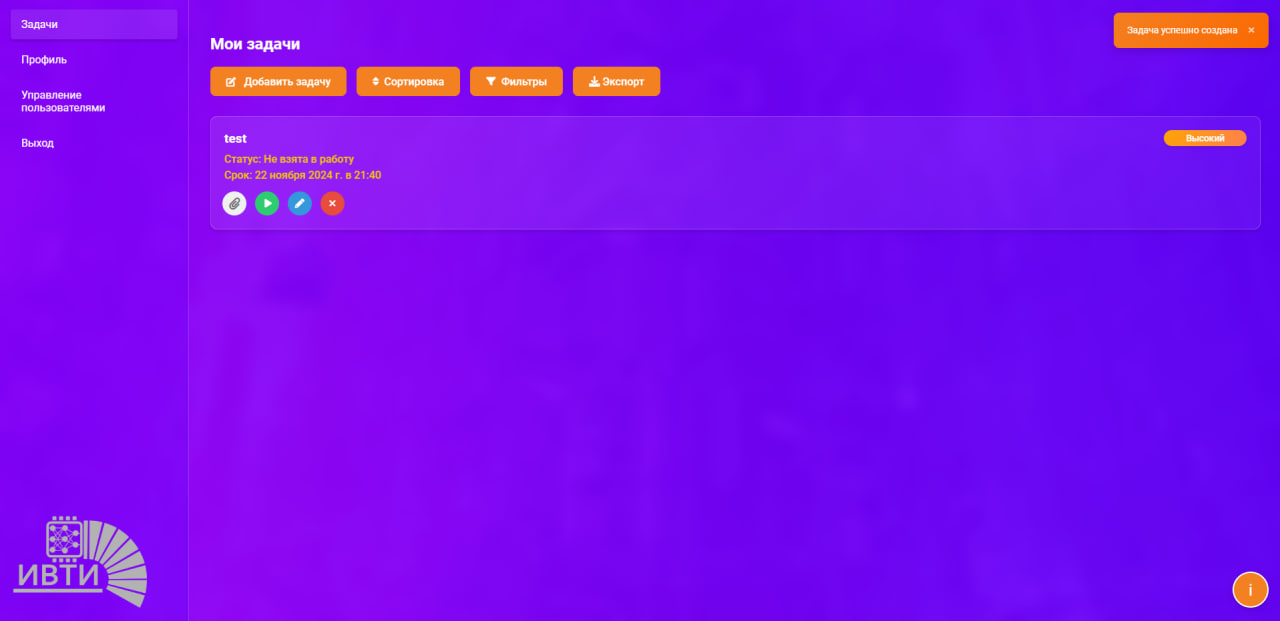
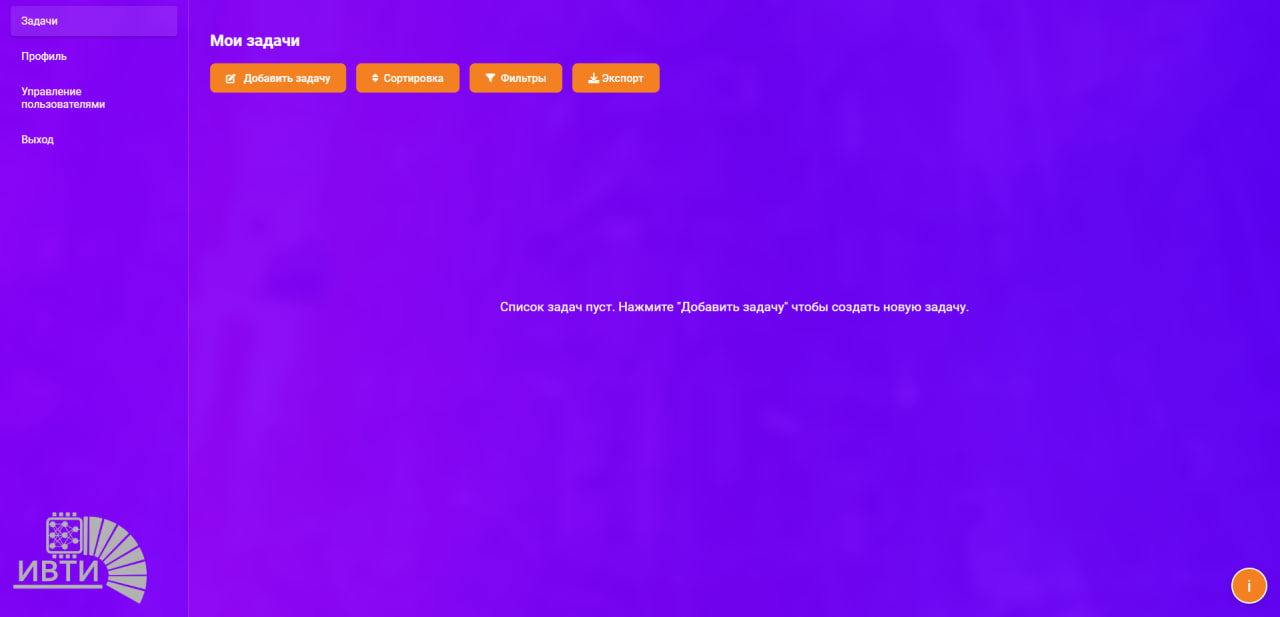
add kanban board

diff --git a/frontend/static/css/dashboard.css b/frontend/static/css/dashboard.css
@@ -5,9 +5,7 @@
     --success-dark: #27ae60;
     --danger-color: #e74c3c;
     --danger-dark: #c0392b;
-    --warning-color: #f1c40f;
     --text-primary: #ffffff;
-    --text-secondary: #e0e0e0;
     --background-light: rgba(255, 255, 255, 0.1);
     --border-color: rgba(255, 255, 255, 0.2);
     --shadow-color: rgba(0, 0, 0, 0.2);
@@ -128,7 +126,7 @@ body {
 .form-group label {
     display: block;
     margin-bottom: 0.5rem;
-    color: var(--text-secondary);
+    color: var(--text-primary);
     font-size: 0.9rem;
     font-weight: 500;
 }
@@ -433,7 +431,7 @@ button:disabled,
 .form-group label {
     display: block;
     margin-bottom: 0.5rem;
-    color: var(--text-secondary);
+    color: var(--text-primary);
     font-size: clamp(0.8rem, 2.5vw, 0.9rem);
 }
 
@@ -694,7 +692,7 @@ button:disabled,
 .info-label {
     font-weight: 500;
     min-width: 180px;
-    color: var(--text-secondary);
+    color: var(--text-primary);
 }
 
 .info-value {
@@ -735,7 +733,7 @@ button:disabled,
 
 .password-requirements {
     font-size: 0.85rem;
-    color: var(--text-secondary);
+    color: var(--text-primary);
     margin-top: 0.5rem;
     padding: 1rem;
     background: rgba(255, 255, 255, 0.1);
@@ -779,7 +777,7 @@ button:disabled,
 
 .user-info p {
     margin: 0.25rem 0;
-    color: var(--text-secondary);
+    color: var(--text-primary);
 }
 
 .user-actions {
@@ -909,11 +907,11 @@ button:disabled,
 
 .task-info p {
     margin: 5px 0;
-    color: var(--text-secondary);
+    color: var(--text-primary);
 }
 
 .due-date {
-    color: var(--warning-color) !important;
+    color: var(--text-primary) !important;
     font-weight: 500;
 }
 
@@ -1042,7 +1040,7 @@ input:checked + .slider:before {
 }
 
 .status-btn.completed {
-    background: var(--warning-color);
+    background: var(--text-primary);
 }
 
 .status-btn.completed:hover {
@@ -1063,7 +1061,7 @@ input:checked + .slider:before {
 }
 
 .complete-btn.completed {
-    background: var(--warning-color);
+    background: var(--text-primary);
 }
 
 .complete-btn.completed:hover {
@@ -1152,7 +1150,7 @@ input:checked + .slider:before {
     display: block;
     padding: 5px 10px;
     font-size: 0.9rem;
-    color: var(--text-secondary);
+    color: var(--text-primary);
     font-weight: 500;
 }
 
@@ -1250,7 +1248,7 @@ input:checked + .slider:before {
     display: block;
     padding: 5px 10px;
     font-size: 0.9rem;
-    color: var(--text-secondary);
+    color: var(--text-primary);
     font-weight: 500;
 }
 
@@ -1538,7 +1536,7 @@ select#taskAssignee option {
 }
 
 .task-status {
-    color: var(--warning-color) !important;
+    color: var(--text-primary) !important;
     font-weight: 500;
 }
 
@@ -1641,4 +1639,106 @@ select#taskAssignee option {
 
 .file-actions button i {
     font-size: 16px;
+}
+
+.kanban-board {
+    display: flex;
+    gap: 20px;
+    padding: 20px;
+    overflow-x: auto;
+    min-height: 400px;
+    max-height: 600px;
+}
+
+.kanban-column {
+    flex: 1;
+    min-width: 300px;
+    background: rgba(255, 255, 255, 0.1);
+    border-radius: 8px;
+    display: flex;
+    flex-direction: column;
+    max-height: 100%;
+    border: 1px solid var(--border-color);
+}
+
+.kanban-column-header {
+    padding: 15px;
+    background: rgba(255, 255, 255, 0.15);
+    border-radius: 8px 8px 0 0;
+    font-weight: bold;
+    text-align: center;
+    color: var(--text-primary);
+}
+
+.kanban-tasks {
+    flex: 1;
+    padding: 10px;
+    overflow-y: auto;
+    min-height: 100px;
+    max-height: calc(100% - 50px);
+}
+
+.task-item {
+    cursor: grab;
+    margin-bottom: 10px;
+    --gradient-bg: linear-gradient(135deg, rgba(147, 0, 255, 0.4), rgba(89, 0, 255, 0.4));
+    border-radius: 6px;
+    box-shadow: 0 2px 4px rgba(0, 0, 0, 0.1);
+    transition: transform 0.2s, box-shadow 0.2s;
+}
+
+.task-item.dragging {
+    opacity: 0.5;
+    cursor: grabbing;
+}
+
+.kanban-tasks:empty {
+    display: flex;
+    align-items: center;
+    justify-content: center;
+    height: 100px;
+    background: rgba(0, 0, 0, 0.05);
+    border-radius: 6px;
+    color: #666;
+    font-style: italic;
+}
+
+.kanban-tasks:empty::after {
+    content: 'Нет задач';
+    font-size: 1.2rem;
+    color: var(--text-primary);
+}
+
+.kanban-board::-webkit-scrollbar,
+.kanban-tasks::-webkit-scrollbar {
+    width: 8px;
+    height: 8px;
+}
+
+.kanban-board::-webkit-scrollbar-track,
+.kanban-tasks::-webkit-scrollbar-track {
+    background: rgba(255, 255, 255, 0.1);
+    border-radius: 4px;
+}
+
+.kanban-board::-webkit-scrollbar-thumb,
+.kanban-tasks::-webkit-scrollbar-thumb {
+    background: rgba(243, 128, 33, 0.6);
+    border-radius: 4px;
+    transition: background 0.3s ease;
+}
+
+.kanban-board::-webkit-scrollbar-thumb:hover,
+.kanban-tasks::-webkit-scrollbar-thumb:hover {
+    background: var(--primary-color);
+}
+
+.kanban-board::-webkit-scrollbar-corner {
+    background: transparent;
+}
+
+.kanban-board,
+.kanban-tasks {
+    scrollbar-width: thin;
+    scrollbar-color: rgba(243, 128, 33, 0.6) rgba(255, 255, 255, 0.1);
 }

diff --git a/frontend/static/js/dashboard.js b/frontend/static/js/dashboard.js
@@ -201,10 +201,22 @@ document.addEventListener('DOMContentLoaded', async () => {
             return;
         }
 
+        const kanbanBoard = document.createElement('div');
+        kanbanBoard.className = 'kanban-board';
+
+        const columns = {
+            backlog: createKanbanColumn('Не взято в работу', 0),
+            inProgress: createKanbanColumn('В работе', 1),
+            completed: createKanbanColumn('Завершено', 2)
+        };
+
+        Object.values(columns).forEach(column => {
+            kanbanBoard.appendChild(column);
+        });
+
         if (currentSort.field) {
             tasks.sort((a, b) => {
                 let comparison = 0;
-
                 if (currentSort.field === 'priority') {
                     comparison = b.priority - a.priority;
                 } else if (currentSort.field === 'due_date') {
@@ -212,16 +224,90 @@ document.addEventListener('DOMContentLoaded', async () => {
                     const dateB = b.due_date ? new Date(b.due_date) : new Date(8640000000000000);
                     comparison = dateA - dateB;
                 }
-
                 return currentSort.order === 'desc' ? -comparison : comparison;
             });
         }
 
-        tasksList.innerHTML = '';
         tasks.forEach(task => {
             const taskElement = createTaskCard(task);
-            tasksList.appendChild(taskElement);
+            taskElement.draggable = true;
+
+            taskElement.addEventListener('dragstart', handleDragStart);
+            taskElement.addEventListener('dragend', handleDragEnd);
+
+            const status = task.status || 0;
+            const columnKey = status === 0 ? 'backlog' : status === 1 ? 'inProgress' : 'completed';
+            columns[columnKey].querySelector('.kanban-tasks').appendChild(taskElement);
         });
+
+        tasksList.appendChild(kanbanBoard);
+    }
+
+    function createKanbanColumn(title, status) {
+        const column = document.createElement('div');
+        column.className = 'kanban-column';
+        column.dataset.status = status;
+
+        column.innerHTML = `
+            <div class="kanban-column-header">${title}</div>
+            <div class="kanban-tasks"></div>
+        `;
+
+        const tasksContainer = column.querySelector('.kanban-tasks');
+
+        tasksContainer.addEventListener('dragover', handleDragOver);
+        tasksContainer.addEventListener('drop', handleDrop);
+
+        return column;
+    }
+
+    function handleDragStart(e) {
+        e.target.classList.add('dragging');
+        e.dataTransfer.setData('text/plain', e.target.getAttribute('data-task-id'));
+    }
+
+    function handleDragEnd(e) {
+        e.target.classList.remove('dragging');
+    }
+
+    function handleDragOver(e) {
+        e.preventDefault();
+        e.dataTransfer.dropEffect = 'move';
+    }
+
+    async function handleDrop(e) {
+        e.preventDefault();
+        const taskId = e.dataTransfer.getData('text/plain');
+        const newStatus = parseInt(e.currentTarget.parentElement.dataset.status);
+
+        try {
+            const response = await fetch(`/tasks/${taskId}`, {
+                method: 'PUT',
+                headers: {
+                    'Authorization': `Bearer ${token}`,
+                    'Content-Type': 'application/json'
+                },
+                body: JSON.stringify({
+                    status: newStatus
+                })
+            });
+
+            if (response.ok) {
+                await loadTasks();
+                showNotification(
+                    `Задача ${getStatusLabel(newStatus).toLowerCase()}`,
+                    'success'
+                );
+            } else {
+                const errorData = await response.json();
+                showNotification(errorData.detail || 'Ошибка при обновлении задачи', 'error');
+                await loadTasks();
+            }
+        } catch (error) {
+            console.error('Error updating task:', error);
+            showNotification('Ошибка при обновлении задачи', 'error');
+            await loadTasks();
+        }
     }
 
     function createTaskCard(task) {

diff --git a/frontend/static/css/author-modal.css b/frontend/static/css/author-modal.css
@@ -1,5 +1,4 @@
 :root {
-    --text-secondary: #e0e0e0;
     --white: #fff;
     --primary-color: #f38021;
     --primary-dark: #fb6900;
@@ -108,7 +107,7 @@
 .author-description {
     font-size: 1rem;
     line-height: 1.6;
-    color: var(--text-secondary);
+    color: var(--white);
     margin-bottom: 2rem;
     transform: translateY(20px);
     opacity: 0;

diff --git a/README.md b/README.md
@@ -56,6 +56,8 @@
 ![info](example/info.jpg)
 ![register](example/register.jpg)
 ![completed](example/complete_task.jpg)
+![create_task_pm](example/create_task_pm.jpg)
+![pm_role_user](example/pm_role_user.jpg)
 
 ## 🧪 Тесты
 ![tests](example/test_coverage.jpg)
